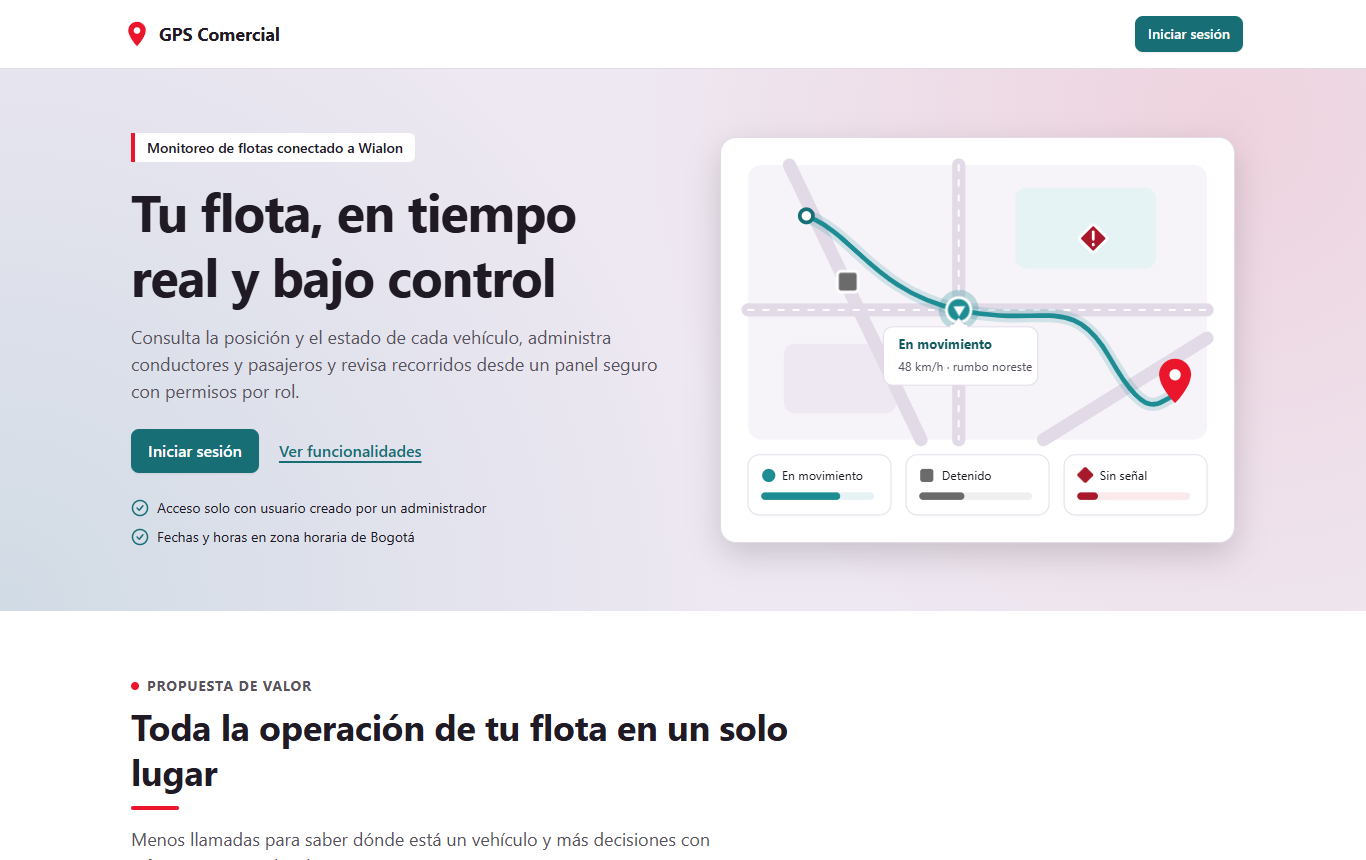
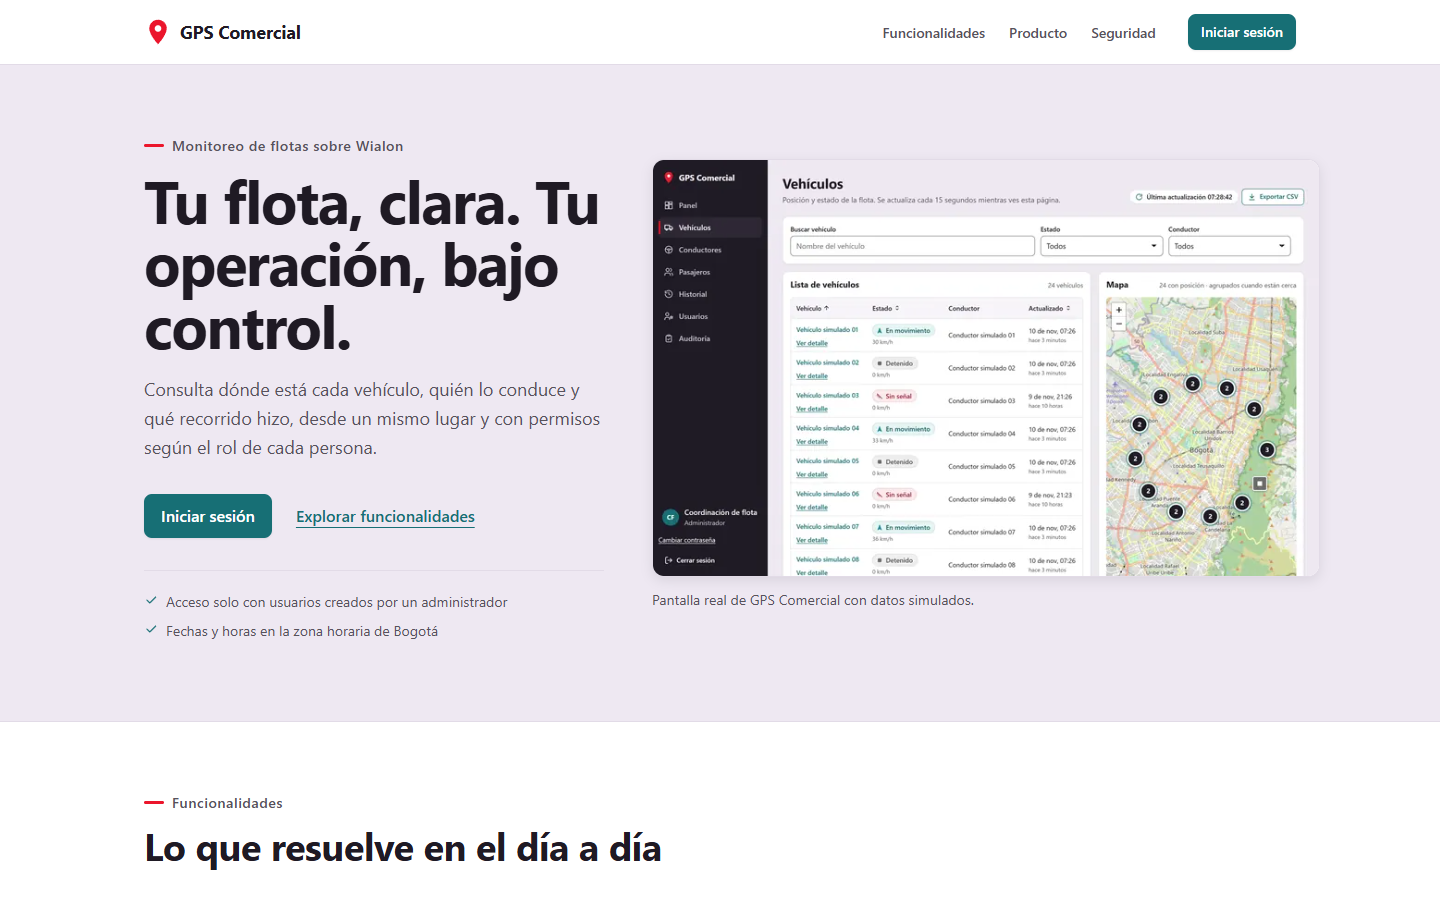
docs: document final visual polish and refresh landing and login screenshots

diff --git a/docs/design-system.md b/docs/design-system.md
@@ -183,3 +183,31 @@ cuando la sesión principal lo decida.
   del hero), CLS 0, tiempo de bloqueo ≈ 225–256 ms. Es una referencia, no una puntuación: la captura de
   Lighthouse debe tomarse sobre la URL desplegada (con compresión) y adjuntarse al README.
 - Revisión con lector de pantalla real (NVDA/VoiceOver) y con un analizador automático (axe): no realizadas.
+
+## Pulido visual final (2026-11-10)
+Dirección: producto de flotas sobrio y preciso. La personalidad viene de la composición y la jerarquía, no de efectos.
+
+**Landing**
+- Superficies planas, sin gradientes ni ilustraciones abstractas:
+  - lavanda `--color-bg` en el hero y el cierre;
+  - blanco y `--color-surface-muted` en las secciones de contenido;
+  - banda oscura `--color-dark` (la misma superficie de la barra lateral de la app) en "Confianza y control".
+- Una sola retícula de 72 rem para cabecera, secciones y pie. En escritorio el hero usa 5/12 de texto y 7/12 de producto.
+- Vista de producto real:
+  - capturas de la aplicación tomadas con datos **simulados** (`FLEET_GATEWAY=fake`), indicadas en el pie de imagen;
+  - nada de nombres, IMEI, teléfonos, coordenadas ni recorridos reales;
+  - WebP con `width`/`height` declarados y versión de 720 px para móvil;
+  - la imagen del hero lleva `fetchpriority="high"`; el resto, carga diferida.
+- Funcionalidades en filas alternas separadas por líneas (no tarjetas idénticas), numeradas en turquesa oscuro con cifras tabulares.
+- Rojo de marca solo como marca corta junto a los antetítulos y en el logotipo. Las acciones usan `#176F75`.
+- En la banda oscura los iconos usan un tono claro de `#1E8C93` (`#7FD3D8`, 9,92:1) y el anillo de foco pasa a blanco.
+- Cabecera con navegación a secciones reales (oculta por debajo de 48 rem, donde el pie y el enlace del hero la cubren). Pie con marca, enlaces reales y atribución de OpenStreetMap. Sin formularios ni registro.
+
+**Login**
+- Fondo plano lavanda (se retiraron los gradientes radiales).
+- En escritorio, panel oscuro con la marca y tres capacidades reales. En móvil, solo el formulario.
+- La tarjeta del formulario tiene borde discreto y sombra ligera.
+- Etiquetas visibles, foco, carga y errores se mantienen del componente compartido.
+
+**Transversal**
+- Cifras tabulares en tablas e indicadores (`font-variant-numeric: tabular-nums`) para comparar velocidades, fechas y conteos.

diff --git a/README.md b/README.md
@@ -12,7 +12,7 @@ Prueba técnica Fullstack para GPS Control. Backend en **FastAPI (Python 3.13)**
 El estado verificado de cada requisito, con evidencia, está en [docs/checklist.md](docs/checklist.md). El relevo de trabajo está en [docs/estado.md](docs/estado.md).
 
 ## 1. Capturas
-Capturas reales con datos de la cuenta Wialon `demoApps`, tomadas con Playwright y Chrome. Por privacidad, los nombres o
+Capturas reales tomadas con Playwright y Chrome. Las de la landing muestran la aplicación con datos simulados; las demás usan la cuenta Wialon `demoApps`. Por privacidad, los nombres o
 IMEI de los vehículos, los conductores y el mapa del recorrido aparecen **enmascarados** en magenta. El mapa general se
 muestra a escala de país.
 
@@ -20,9 +20,9 @@ muestra a escala de país.
 |---|---|---|
 | ![Landing](docs/screenshots/landing.png) | ![Dashboard](docs/screenshots/dashboard.png) | ![Vehículos](docs/screenshots/vehiculos-mapa.png) |
 
-| Historial con reproducción y velocidad | Móvil 360 px: landing | Móvil 360 px: dashboard |
+| Login | Historial con reproducción y velocidad | Móvil 360 px: landing |
 |---|---|---|
-| ![Historial](docs/screenshots/historial.png) | ![Landing móvil](docs/screenshots/landing-movil.png) | ![Dashboard móvil](docs/screenshots/dashboard-movil.png) |
+| ![Login](docs/screenshots/login.png) | ![Historial](docs/screenshots/historial.png) | ![Landing móvil](docs/screenshots/landing-movil.png) |
 
 **Lighthouse móvil** sobre la URL de producción `https://gpscomercial.juanagonzalez.dev` (2026-11-10, dos ejecuciones con el
 mismo resultado):
